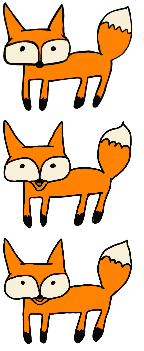
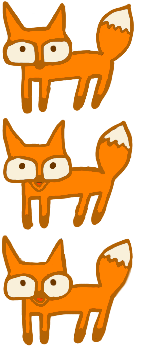
Add animations and outro scene

diff --git a/sdlexample/fox.c b/sdlexample/fox.c
@@ -22,6 +22,11 @@ Fox *make_fox(SDL_FPoint initial_position) {
   // Change default speed multiplier to make the animation slower
   fox->walking->speed_multiplier = 1. / 6;
   fox->talking = make_animation_data(3, LOOP);
+  fox->sitting = make_animation_data(3, LOOP);
+  // Play sitting animation by default because it will also be used for the idle
+  // state
+  play_animation(fox->sitting, NULL);
+  fox->waving = make_animation_data(3, LOOP);
   fox->current_position = initial_position;
   fox->target_position = initial_position;
   fox->direction = (SDL_FPoint){0, 0};
@@ -48,6 +53,18 @@ bool fox_load_media(Fox *fox, SDL_Renderer *renderer) {
     return false;
   }
 
+  if (!load_animation(renderer, fox->sitting, "fox/sitting.png",
+                      "fox/sitting.anim")) {
+    fprintf(stderr, "Failed to load fox sitting!\n");
+    return false;
+  }
+
+  if (!load_animation(renderer, fox->waving, "fox/waving.png",
+                      "fox/waving.anim")) {
+    fprintf(stderr, "Failed to load fox waving!\n");
+    return false;
+  }
+
   fox->walking_sound = Mix_LoadWAV("fox/walking.wav");
   if (fox->walking_sound == NULL) {
     fprintf(stderr, "Failed to load low sound effect! SDL_mixer Error: %s\n",
@@ -70,15 +87,21 @@ void fox_update(Fox *fox, float delta_time) {
   case EAST:
     fox->walking->flip = SDL_FLIP_HORIZONTAL;
     fox->talking->flip = SDL_FLIP_HORIZONTAL;
+    fox->sitting->flip = SDL_FLIP_HORIZONTAL;
+    fox->waving->flip = SDL_FLIP_HORIZONTAL;
     break;
   case WEST:
     fox->walking->flip = SDL_FLIP_NONE;
     fox->talking->flip = SDL_FLIP_NONE;
+    fox->sitting->flip = SDL_FLIP_NONE;
+    fox->waving->flip = SDL_FLIP_NONE;
     break;
   }
 
   switch (fox->state) {
   case IDLE:
+  case SITTING:
+  case WAVING:
     break;
   case WALKING:
     // Stop walking after reaching the target position
@@ -115,11 +138,19 @@ void fox_render(Fox *fox, SDL_Renderer *renderer) {
 
   switch (fox->state) {
   case IDLE:
+    render_animation(renderer, fox->sitting, position);
+    break;
   case WALKING:
     render_animation(renderer, fox->walking, position);
     break;
   case TALKING:
     render_animation(renderer, fox->talking, position);
+    break;
+  case SITTING:
+    render_animation(renderer, fox->sitting, position);
+    break;
+  case WAVING:
+    render_animation(renderer, fox->waving, position);
     break;
   }
 }
@@ -127,6 +158,8 @@ void fox_render(Fox *fox, SDL_Renderer *renderer) {
 void fox_free(Fox *fox) {
   free_animation(fox->walking);
   free_animation(fox->talking);
+  free_animation(fox->sitting);
+  free_animation(fox->waving);
   Mix_FreeChunk(fox->walking_sound);
   free(fox);
 }
@@ -173,4 +206,14 @@ void fox_talk(Fox *fox, Mix_Chunk *dialog) {
   fox->state = TALKING;
   fox->talking_duration = talking_duration;
   fox->started_talking_at = SDL_GetTicks();
+}
+
+void fox_sit(Fox *fox) {
+  play_animation(fox->sitting, NULL);
+  fox->state = SITTING;
+}
+
+void fox_wave(Fox *fox) {
+  play_animation(fox->waving, NULL);
+  fox->state = WAVING;
 }

diff --git a/sdlexample/outro.c b/sdlexample/outro.c
@@ -1,0 +1,89 @@
+//
+//  outro.c
+//  sdlexample
+//
+//  Created by Giovanni Cappellotto on 1/23/25.
+//
+
+#include <SDL2/SDL.h>
+#include <SDL2_mixer/SDL_mixer.h>
+#include <stdbool.h>
+
+#include "constants.h"
+#include "fox.h"
+#include "game.h"
+#include "image.h"
+
+#include "outro.h"
+
+static ImageData images[1] = {
+    {NULL, "outro/background.png", 0, 0},
+};
+static const ImageData *background = &images[0];
+
+static Fox *fox;
+
+// Music
+static Mix_Music *music = NULL;
+
+static void init(void) {
+  fox = make_fox((SDL_FPoint){398, 329});
+  fox_wave(fox);
+}
+
+static bool load_media(SDL_Renderer *renderer) {
+  if (!fox_load_media(fox, renderer)) {
+    fprintf(stderr, "Failed to load fox!\n");
+    return false;
+  }
+
+  // Load music
+  music = Mix_LoadMUS("intro/music.wav");
+  if (music == NULL) {
+    fprintf(stderr, "Failed to load music! SDL_mixer Error: %s\n",
+            Mix_GetError());
+    return false;
+  }
+
+  return true;
+}
+
+static void process_input(SDL_Event *event) {
+  switch (event->type) {
+  case SDL_MOUSEBUTTONDOWN:
+    set_active_scene(INTRO);
+    break;
+  }
+}
+
+static void update(float delta_time) { fox_update(fox, delta_time); }
+
+static void render(SDL_Renderer *renderer) {
+  render_image(renderer, background, (SDL_Point){0, 0});
+
+  fox_render(fox, renderer);
+}
+
+static void deinit(void) {
+  fox_free(fox);
+
+  Mix_FreeMusic(music);
+  music = NULL;
+}
+
+static void on_scene_active(void) { Mix_PlayMusic(music, -1); }
+
+static void on_scene_inactive(void) { Mix_HaltMusic(); }
+
+Scene outro_scene = {
+    .init = init,
+    .load_media = load_media,
+    .process_input = process_input,
+    .update = update,
+    .render = render,
+    .deinit = deinit,
+    .on_scene_active = on_scene_active,
+    .on_scene_inactive = on_scene_inactive,
+    .images = images,
+    .images_length = LEN(images),
+};

diff --git a/sdlexample/intro.c b/sdlexample/intro.c
@@ -10,6 +10,7 @@
 #include <stdbool.h>
 
 #include "constants.h"
+#include "fox.h"
 #include "game.h"
 #include "image.h"
 
@@ -23,6 +24,8 @@ static const ImageData *background = &images[0];
 // Animations
 static AnimationData *play_button;
 static AnimationData *exit_button;
+
+static Fox *fox;
 
 // Music
 static Mix_Music *music = NULL;
@@ -47,6 +50,9 @@ static void init(void) {
   play_button = make_animation_data(3, LOOP);
   exit_button = make_animation_data(3, LOOP);
 
+  fox = make_fox((SDL_FPoint){322, 317});
+  fox_sit(fox);
+
   hotspots[0] = PLAY_BUTTON_HOTSPOT;
   hotspots[1] = EXIT_BUTTON_HOTSPOT;
 }
@@ -61,6 +67,11 @@ static bool load_media(SDL_Renderer *renderer) {
   if (!load_animation(renderer, exit_button, "intro/exit_button.png",
                       "intro/exit_button.anim")) {
     fprintf(stderr, "Failed to load exit button!\n");
+    return false;
+  }
+
+  if (!fox_load_media(fox, renderer)) {
+    fprintf(stderr, "Failed to load fox!\n");
     return false;
   }
 
@@ -102,18 +113,22 @@ static void process_input(SDL_Event *event) {
   }
 }
 
-static void update(float delta_time) {}
+static void update(float delta_time) { fox_update(fox, delta_time); }
 
 static void render(SDL_Renderer *renderer) {
   render_image(renderer, background, (SDL_Point){0, 0});
 
   render_animation(renderer, play_button, (SDL_Point){410, 260});
   render_animation(renderer, exit_button, (SDL_Point){440, 450});
+
+  fox_render(fox, renderer);
 }
 
 static void deinit(void) {
   free_animation(play_button);
   free_animation(exit_button);
+
+  fox_free(fox);
 
   Mix_FreeMusic(music);
   music = NULL;

diff --git a/sdlexample/playground.c b/sdlexample/playground.c
@@ -94,6 +94,7 @@ static bool has_started_sliding = false;
 static float slide_x = 0;
 static int examine_slide_count = 0;
 static int examine_squirrel_count = 0;
+static int slides_count = 0;
 
 static void init(void) {
   fox = make_fox((SDL_FPoint){580, 457});
@@ -194,6 +195,11 @@ static void process_input(SDL_Event *event) {
     SDL_GetMouseState(&m_pos.x, &m_pos.y);
     break;
   case SDL_MOUSEBUTTONDOWN:
+    // If has already slid three or more times go to outro
+    if (slides_count > 2) {
+      set_active_scene(OUTRO);
+      break;
+    }
     if (SDL_PointInRect(&m_pos, &SLIDE_HOTSPOT)) {
       // Walk to slide
       fox_walk_to(fox, (SDL_FPoint){SLIDE_POI.x, SLIDE_POI.y}, maybe_use_slide);
@@ -261,6 +267,8 @@ static void update(float delta_time) {
     if (slide_x > 270) {
       slide_x = 0;
       has_started_sliding = false;
+      slides_count++;
+      fox_walk_to(fox, (SDL_FPoint){SLIDE_POI.x, SLIDE_POI.y}, NULL);
     }
   }
 }

diff --git a/sdlexample/fox.h b/sdlexample/fox.h
@@ -22,6 +22,8 @@ typedef enum fox_state {
   IDLE,
   WALKING,
   TALKING,
+  SITTING,
+  WAVING,
 } FoxState;
 
 typedef struct fox {
@@ -29,6 +31,8 @@ typedef struct fox {
   Mix_Chunk *walking_sound;
   int walking_sound_channel;
   AnimationData *talking;
+  AnimationData *sitting;
+  AnimationData *waving;
   SDL_FPoint current_position;
   SDL_FPoint target_position;
   SDL_FPoint direction;
@@ -55,5 +59,9 @@ void fox_free(Fox *fox);
 void fox_walk_to(Fox *fox, SDL_FPoint position, void (*on_end)(void));
 
 void fox_talk(Fox *fox, Mix_Chunk *dialog);
+
+void fox_sit(Fox *fox);
+
+void fox_wave(Fox *fox);
 
 #endif /* fox_h */

diff --git a/sdlexample/game.c b/sdlexample/game.c
@@ -10,6 +10,7 @@
 
 // Scenes
 #include "intro.h"
+#include "outro.h"
 #include "playground.h"
 #include "playground_entrance.h"
 
@@ -31,6 +32,8 @@ Scene scene_instance(GameScene scene) {
     return playground_entrance_scene;
   case PLAYGROUND:
     return playground_scene;
+  case OUTRO:
+    return outro_scene;
   case EXAMPLE:
     return example_scene;
   default:

diff --git a/sdlexample/game.h b/sdlexample/game.h
@@ -14,6 +14,7 @@ typedef enum game_scene {
   INTRO,
   PLAYGROUND_ENTRANCE,
   PLAYGROUND,
+  OUTRO,
   EXAMPLE,
   // This should always be the last value in the enum
   // It is a hack to iterate over all the scenes

diff --git a/sdlexample/outro.h b/sdlexample/outro.h
@@ -1,0 +1,15 @@
+//
+//  outro.h
+//  sdlexample
+//
+//  Created by Giovanni Cappellotto on 1/23/25.
+//
+
+#ifndef outro_h
+#define outro_h
+
+#import "scene.h"
+
+extern Scene outro_scene;
+
+#endif /* outro_h */
